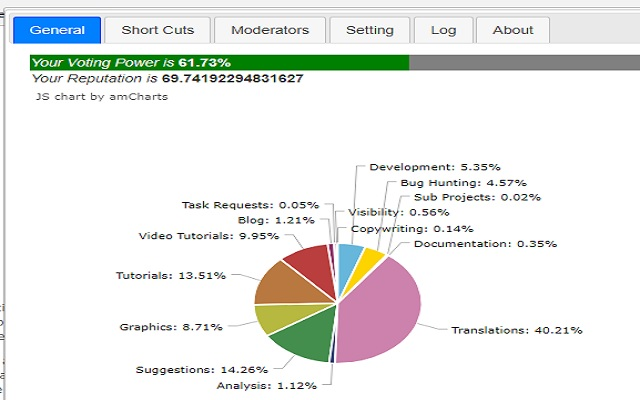
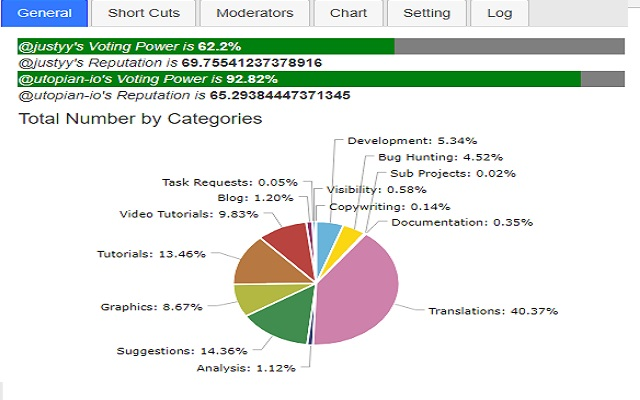
update readme and screenshot

diff --git a/README.md b/README.md
@@ -18,21 +18,25 @@ https://chrome.google.com/webstore/detail/utopian-moderator-supervi/dcjdbldgiibo
 ![](https://helloacm.com/wp-content/uploads/2018/01/chrome-extension-utopian-moderator-supervisor.jpg)
 
 # Screenshots
-![](https://helloacm.com/wp-content/uploads/2018/01/utopian-chrome-extension-steemit-tab-shortcuts.jpg)
-![](https://helloacm.com/wp-content/uploads/2018/01/utopian-chrome-extension-steemit-tab-log-600x401.jpg)
+![](https://github.com/DoctorLai/utopian-moderator/blob/master/images/shortcuts.jpg?raw=true)
+![](https://github.com/DoctorLai/utopian-moderator/blob/master/images/log.jpg?raw=true)
 ![](https://github.com/DoctorLai/utopian-moderator/blob/master/images/general.jpg?raw=true)
-![](https://helloacm.com/wp-content/uploads/2018/01/utopian-chrome-extension-steemit-tab-about.jpg)
 ![](https://helloacm.com/wp-content/uploads/2018/01/utopian-chrome-extension-steemit-tab-.jpg)
 ![](https://github.com/DoctorLai/utopian-moderator/blob/master/images/moderators.jpg?raw=true)
 ![](https://helloacm.com/wp-content/uploads/2018/01/utopian-top-moderators-by-total-paid-steem.jpg)
 ![](https://helloacm.com/wp-content/uploads/2018/01/loading-gif-utopian-chrome-extension.jpg)
+![](https://github.com/DoctorLai/utopian-moderator/blob/master/images/moderators.jpg?raw=true)
+![](https://github.com/DoctorLai/utopian-moderator/blob/master/images/setting.jpg?raw=true)
+![](https://github.com/DoctorLai/utopian-moderator/blob/master/images/chart1.jpg?raw=true)
+![](https://github.com/DoctorLai/utopian-moderator/blob/master/images/chart2.jpg?raw=true)
 
 # Roadmap
 I am adding the following features in the next coming versions:
 - Add more handy tools/features regarding to the post.
 - Add feature to search a moderator or a supervisor.
-- Add more Global statistics.
+- Add more global statistics.
 - Add some real time statistics.
+- Add unreviewed contributions statistics.
 
 # SteemIt Posts
 - [The First Utopian Moderator Chrome Extension](https://steemit.com/utopian-io/@justyy/the-first-utopian-moderator-chrome-extension)
